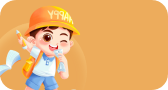
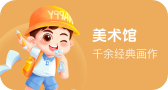
加了一点 你看一下

Changed region(s): [[0.5357, 0.3111, 0.8333, 0.4667], [0.5357, 0.5333, 0.9524, 0.6667]]

diff --git a/index.html b/index.html
@@ -1,76 +1,155 @@
 <!DOCTYPE html>
 <html lang="en">
+
 <head>
   <meta charset="UTF-8">
   <title>教育小程序</title>
 
   <style>
-    *{
+    * {
       margin: 0px;
-     padding: 0px;
-   background-color: #ffffff;
+      padding: 0px;
+      background-color: #ffffff;
+
     }
-    .navigation-bar{
-      width:375px;
-      height: 83px; /* 增加高度以适应垂直排列 */
-      margin-top: auto; /* 将footer推到底部 */
-      position: fixed; /* 固定定位 */
+
+    .navigation-bar-home-top {
+      width: 375px;
+      height: 88px;
+      position: relative;
+      margin-top: auto;
+      /* 将footer推到底部 */
+      position: fixed;
+
+    }
+
+    .top-img {
+      width: 340px;
+      height: 15px;
+      padding: 10px 0 0 18px;
+    }
+
+    .top-img-right {
+      width: 87px;
+      height: 32px;
+      padding: 18px 0 0 0;
+      position: absolute;
+      right: 0;
+    }
+
+    .navigation-bar-top-test {
+      display: block;
+      font-size: 20px;
+      padding: 18px 0 0 171px;
+    }
+
+    .navigation-bar-home-bottom {
+      width: 375px;
+      height: 83px;
+      /* 增加高度以适应垂直排列 */
+      margin-top: auto;
+      /* 将footer推到底部 */
+      position: fixed;
+      /* 固定定位 */
       bottom: 0;
     }
+
     .navigation {
-      display: flex; /* 使用flexbox布局，让bar元素横向排列 */
-      justify-content: space-around; /* 均匀分布元素 */
-      align-items: center; /* 垂直居中 */
-      height: 49px; /* 增加高度以适应垂直排列 */
+      display: flex;
+      /* 使用flexbox布局，让bar元素横向排列 */
+      justify-content: space-around;
+      /* 均匀分布元素 */
+      align-items: center;
+      /* 垂直居中 */
+      height: 49px;
+      /* 增加高度以适应垂直排列 */
       list-style-type: none;
     }
-    .bar {
-      display: flex; /* 使用flexbox布局 */
-      flex-direction: column; /* 图标和文字纵向排列 */
-      align-items: center; /* 水平居中 */
+
+    .bottom {
+      display: flex;
+      /* 使用flexbox布局 */
+      flex-direction: column;
+      /* 图标和文字纵向排列 */
+      align-items: center;
+      /* 水平居中 */
       justify-content: center;
       width: 75px;
-      height: 49px; /* 垂直居中 */
-  
+      height: 49px;
+      /* 垂直居中 */
+
     }
-    .bar img {
+
+    .bottom bottom-img {
       width: 24px;
       height: 24px;
       opacity: 1;
-      margin-bottom: 5px; /* 在图片下方添加间距 */
+      margin-bottom: 5px;
+      /* 在图片下方添加间距 */
     }
-    .img1{
-       justify-content: center;
-        display: flex;
-        padding: 20px 0 0 0;
+
+    .bottom-img1 {
+      justify-content: center;
+      display: flex;
+      padding: 20px 0 0 0;
     }
-    .bar li {
+
+    .bottom li {
       font-size: 10px;
       font-weight: 500;
       letter-spacing: -0.24px;
       line-height: 14px;
       text-align: center;
-      list-style-type: none; /* 移除列表项标记 */
+      list-style-type: none;
+      /* 移除列表项标记 */
     }
-     .bar1{
-     color: rgba(250, 98, 22, 1);
+
+    .bar1 {
+      color: rgba(250, 98, 22, 1);
+    }
+    .home1{
+      padding: 88px 0 0 14px;
+      height: 188px;
+      width: 367px;
     }
   </style>
 </head>
+
 <body>
-<div class="navigation-bar">
-  <div class="navigation">
-    <div class="bar bar1"><img src="img\首页-img\首页-fill.png" alt="导航栏-首页">
-    <li>首页</li></div>
-     <div  class="bar"><img src="img\首页-img\导航栏-课程.png" alt="导航栏-首页">
-    <li>课程</li></div>
-     <div  class="bar"><img src="img\首页-img\导航栏-消息.png" alt="导航栏-首页">
-    <li>消息</li></div>
-     <div  class="bar"><img src="img\首页-img\导航栏-我的.png" alt="导航栏-首页">
-    <li>我的</li></div>
+  <div class="y">
+    <div class="navigation-bar-home-top">
+      <div class="top-img">
+        <img src="img\首页-img\➤状态栏.svg" alt="">
+      </div>
+      <div class="top-img-right">
+        <img src="img\首页-img\➤右侧区域.svg" alt="">
+      </div>
+      <span class="navigation-bar-top-test">首页</span>
+    </div>
+    <div class="navigation-bar-home-bottom">
+      <div class="navigation">
+        <div class="bottom bar1"><img class="bottom-img" src="img\首页-img\首页-fill.png" alt="导航栏-首页">
+          <li>首页</li>
+        </div>
+        <div class="bottom"><img class="bottom-img" src="img\首页-img\导航栏-课程.png" alt="导航栏-首页">
+          <li>课程</li>
+        </div>
+        <div class="bottom"><img class="bottom-img" src="img\首页-img\导航栏-消息.png" alt="导航栏-首页">
+          <li>消息</li>
+        </div>
+        <div class="bottom"><img class="bottom-img" src="img\首页-img\导航栏-我的.png" alt="导航栏-首页">
+          <li>我的</li>
+        </div>
+      </div>
+      <div class="bottom-img1"><img class="bottom-img" src="img\首页-img\Home Indicator.png" alt="xian"></div>
+    </div>
+<div class="home1">
+  <img src="img\首页-img\首页-美术馆.png" alt="">
+  <img src="img\首页-img\首页-视频读物.png" alt="">
+  <img src="img\首页-img\首页-3D音乐.png" alt="">
+  <img src="img\首页-img\首页-探索世界.png" alt="">
+</div>
   </div>
-  <div class="img1"><img src="img\首页-img\Home Indicator.png" alt="xian"></div>
-</div>
-</div>
 </body>
+
 </html>
